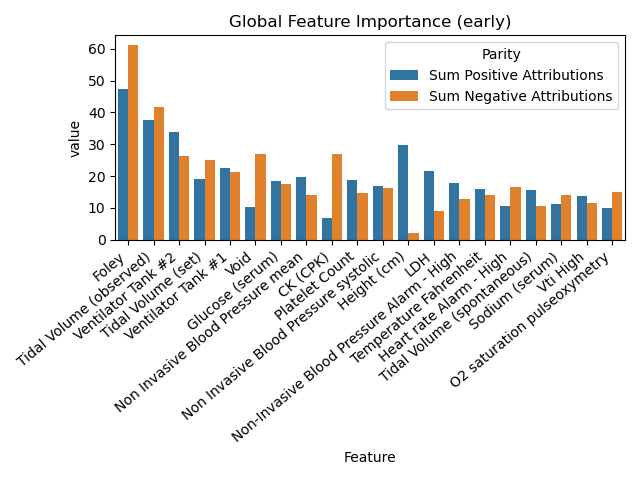
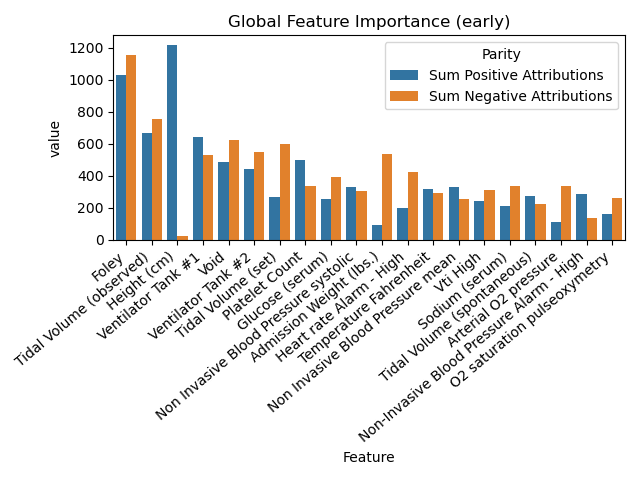
Use all data for attributions

diff --git a/src/tabsep/modeling/tstCaptum.py b/src/tabsep/modeling/tstCaptum.py
@@ -65,10 +65,15 @@ if __name__ == "__main__":
 
     X_test = torch.load(f"{config.model_path}/X_test.pt")
     y_test = torch.load(f"{config.model_path}/y_test.pt")
+    X_train = torch.load(f"{config.model_path}/X_train.pt")
+    y_train = torch.load(f"{config.model_path}/y_train.pt")
+
+    X_combined = torch.cat((X_test, X_train), 0)
+    y_combined = torch.cat((y_test, y_train), 0)
 
     dl = torch.utils.data.DataLoader(
-        TensorBasedDataset(X_test, y_test),
-        batch_size=8,
+        TensorBasedDataset(X_combined, y_combined),
+        batch_size=32,
         num_workers=CORES_AVAILABLE,
         pin_memory=True,
         drop_last=False,
@@ -77,17 +82,31 @@ if __name__ == "__main__":
     attributions_list = list()
     pad_mask_list = list()
 
-    for xbatch, _ in dl:
-        xbatch = xbatch.to(device)
+    for batch_idx, (xbatch, _) in enumerate(dl):
+        with torch.no_grad():  # Computing gradients kills memory
+            xbatch = xbatch.to(device)
 
-        pad_masks = xbatch[:, :, -1] == 1
-        xbatch = xbatch[:, :, :-1]
+            pad_masks = xbatch[:, :, -1] == 1
+            xbatch = xbatch[:, :, :-1]
 
-        xbatch.requires_grad = True
+            xbatch.requires_grad = True
 
-        ig = IntegratedGradients(model)
-        attributions = ig.attribute(xbatch, additional_forward_args=pad_masks, target=0)
-        attributions_list.append(attributions.cpu())
+            ig = IntegratedGradients(model)
+            attributions = ig.attribute(
+                xbatch, additional_forward_args=pad_masks, target=0
+            )
+            attributions_list.append(attributions.cpu())
+
+            before_mem = torch.cuda.memory_allocated(device) / 2 ** 30
+            del attributions
+            del pad_masks
+            del xbatch
+            torch.cuda.empty_cache()
+            after_mem = torch.cuda.memory_allocated(device) / 2 ** 30
+
+            print(
+                f"batch # {batch_idx} purged memory {before_mem:.4f} -> {after_mem:.4f}"
+            )
 
     attributions_all = torch.concat(attributions_list, dim=0)
     print(f"Saving attributions to {config.model_path}/attributions.pt")

diff --git a/src/tabsep/reporting/globalImportance.py b/src/tabsep/reporting/globalImportance.py
@@ -1,7 +1,6 @@
 ##########
 # Get top 20 features w/maximum attribution at any point during icustay
 ##########
-from operator import neg
 import torch
 import numpy as np
 import pandas as pd
@@ -119,8 +118,13 @@ def max_median_importances(att):
 if __name__ == "__main__":
 
     attributions = torch.load(f"{config.model_path}/attributions.pt").detach()
-    X_test = torch.load(f"{config.model_path}/X_test.pt").detach()
-    pad_masks = X_test[:, :, -1]
+    X_test = torch.load(f"{config.model_path}/X_test.pt")
+    X_train = torch.load(f"{config.model_path}/X_train.pt")
+    X_combined = torch.cat((X_test, X_train), 0).detach()
+
+    print("Loaded data")
+
+    pad_masks = X_combined[:, :, -1]
 
     titles = ["all", "early", "late"]
 

diff --git a/src/tabsep/reporting/featureCorrelations.py b/src/tabsep/reporting/featureCorrelations.py
@@ -15,7 +15,10 @@ class FeatureCorrelator:
         self.attributions = (
             torch.load(f"{config.model_path}/attributions.pt").detach().numpy()
         )
-        X = torch.load(f"{config.model_path}/X_test.pt").numpy()
+
+        X_test = torch.load(f"{config.model_path}/X_test.pt")
+        X_train = torch.load(f"{config.model_path}/X_train.pt")
+        X = torch.cat((X_test, X_train), 0).detach().numpy()
         self.pad_masks = X[:, :, -1]
 
         self.feature_labels = get_feature_labels()
@@ -96,7 +99,7 @@ class FeatureCorrelator:
 
 
 if __name__ == "__main__":
-    fc = FeatureCorrelator("Spont Vt")
+    fc = FeatureCorrelator("Foley")
 
     correlation_attribs = fc.absolute_max_comparison()
 

diff --git a/src/tabsep/modeling/transformerSingle.py b/src/tabsep/modeling/transformerSingle.py
@@ -43,6 +43,8 @@ if __name__ == "__main__":
     torch.save(tst.model.state_dict(), f"{save_path}/model.pt")
     torch.save(X_test, f"{save_path}/X_test.pt")
     torch.save(y_test, f"{save_path}/y_test.pt")
+    torch.save(X_train, f"{save_path}/X_train.pt")
+    torch.save(y_train, f"{save_path}/y_train.pt")
 
     preds = tst.decision_function(X_test)
     torch.save(preds, f"{save_path}/preds.pt")

diff --git a/src/tabsep/__init__.py b/src/tabsep/__init__.py
@@ -22,5 +22,5 @@ with open("mimicts/readme.txt", "r") as f:
 config = Config(
     timestep_seconds=timestep_seconds,
     prediction_timesteps=1,
-    model_path="/gpfs/home/isears1/Repos/tabnet-sepsis/cache/models/singleTst_2022-07-25_16:12:42",
+    model_path="/gpfs/home/isears1/Repos/tabnet-sepsis/cache/models/singleTst_2022-07-29_14:10:48",
 )
